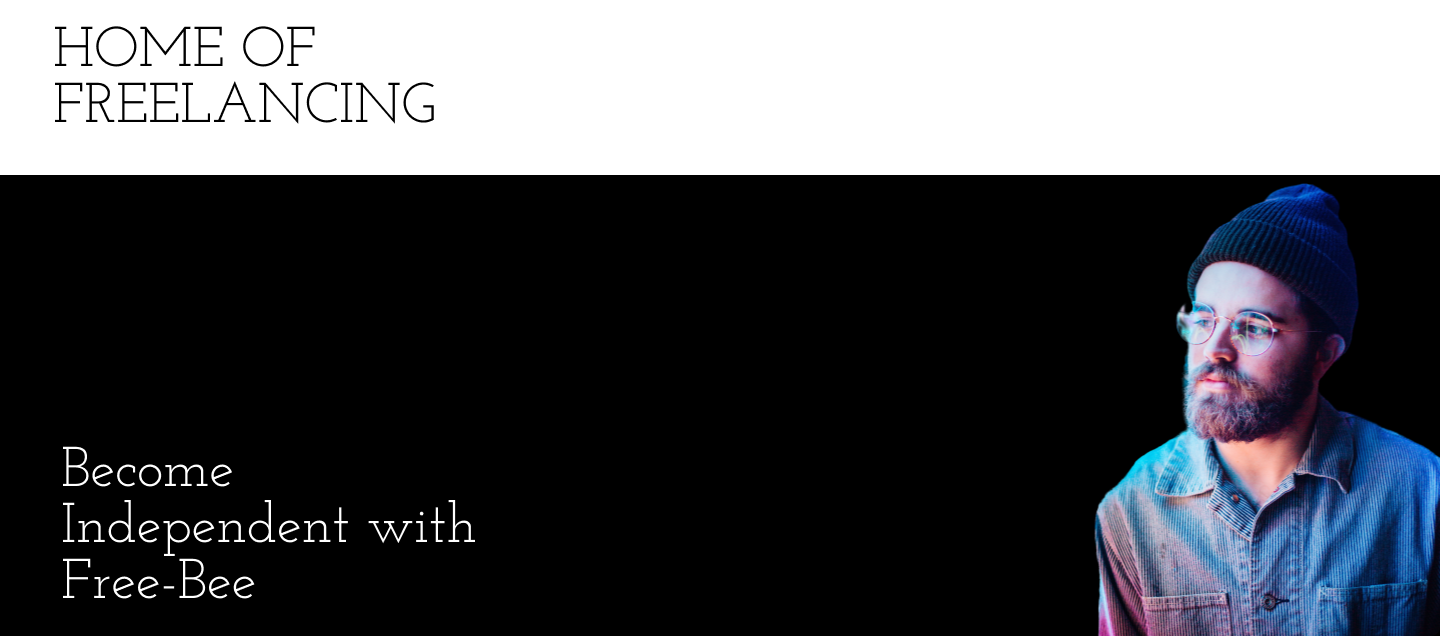
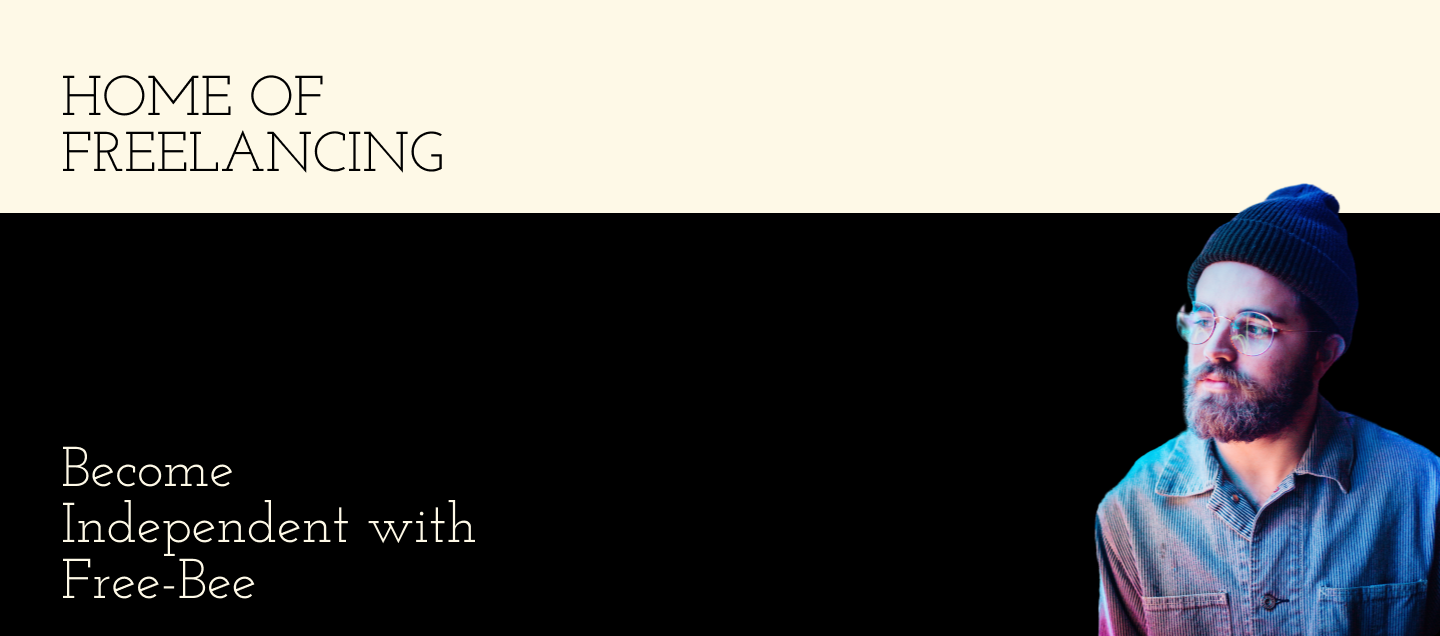
changes made for marketplace and colors added to body

Changed region(s): [[0.0, 0.0299, 1.0, 0.3585]]

diff --git a/main/templates/main/index.html b/main/templates/main/index.html
@@ -9,37 +9,45 @@
     <link rel="stylesheet" href="https://maxcdn.bootstrapcdn.com/bootstrap/3.4.1/css/bootstrap.min.css">
     <script src="https://ajax.googleapis.com/ajax/libs/jquery/3.6.0/jquery.min.js"></script>
     <script src="https://maxcdn.bootstrapcdn.com/bootstrap/3.4.1/js/bootstrap.min.js"></script>
-<body>
+    <body style="background-color:#FEF9E7">
     {% include '/Users/tanajkhanuja/Desktop/bee/main/templates/main/navbar.html' %}
     {%block  navbar%}
     
     {%endblock %} 
-    <div class="main" id="main">
+    <div class="main" id="main" style="background-color : #FEF9E7;">
         
         <img src="/static/images/1.png" class="img-fluid" alt="1" />
-      <a href="/signup"  <button type="button" class="btn btn-warning"  >Get Started</button> </a>
+         <a href="/signup" <button type="button" class="btn btn-warning" style="margin: 15px  " >Get Started</button> </a>
         <hr>
         <img src="/static/images/2.png" class="img-fluid" alt="2" />
         
 
         <hr>
-        <div>
-        <img src="/static/images/graphics.png" class="img-fluid" alt="Graphics" />
-        <a href="#">Graphics and Design</a>
+        <div class="section1">
+        <img src="/static/images/graphics.png" class="img-fluid" alt="Graphics"  />
+        <a href="#">Graphics and Design</a><hr> <br>
+            <br>
         <img src="/static/images/business.png" class="img-fluid" alt="Graphics" />
-        <a href="#">Business</a>
+        <a href="#">Business</a><hr><br>
+            <br>
         <img src="/static/images/data.png" class="img-fluid" alt="data" />
-        <a href="#">Data</a>
+        <a href="#">Data</a><hr><br>
+            <br>
         <img src="/static/images/marketing.png" class="img-fluid" alt="marketing" />
-        <a href="#">Ditigal Marketing</a>
+        <a href="#">Ditigal Marketing</a><hr><br>
+            <br>
         <img src="/static/images/audio.png" class="img-fluid" alt="audio" />
-        <a href="#"> Music and Audio</a>
+        <a href="#"> Music and Audio</a><hr><br>
+            <br>
         <img src="/static/images/programming.png" class="img-fluid" alt="programming" />
-        <a href="#">Programming and Tech</a> 
+        <a href="#">Programming and Tech</a> <hr><br>
+            <br>
         <img src="/static/images/videoediting.png" class="img-fluid" alt="videoediting" />
-        <a href="#">Video and Animation</a>
+        <a href="#">Video and Animation</a><hr><br>
+            <br>
         <img src="/static/images/writing.png" class="img-fluid" alt="writing" />
-        <a href="#">Writing and Translation </a>
+        <a href="#">Writing and Translation </a><hr><br>
+            <br>
         
         
         </div>

diff --git a/main/templates/main/marketplace.html b/main/templates/main/marketplace.html
@@ -4,7 +4,19 @@
 <link rel="stylesheet" href="https://maxcdn.bootstrapcdn.com/bootstrap/3.4.1/css/bootstrap.min.css"></link>
 <script src="https://ajax.googleapis.com/ajax/libs/jquery/3.6.0/jquery.min.js"></script>
 <script src="https://maxcdn.bootstrapcdn.com/bootstrap/3.4.1/js/bootstrap.min.js"></script>
-<h1>Marketplace</h1>
+<body style="background-color:#FEF9E7;" > 
+    <img src="/static/images/Marketplace.png" class="img-fluid" alt="marketplace" />
+    <div class="marketplace">
+        <a href="#" class="cat-con">Graphics and Design </a>  | 
+        <a href="#"  class="cat-con">Business</a>     |
+        <a href="#" class="cat-con">Data</a>     |
+        <a href="#" class="cat-con">Marketing</a>     |
+        <a href="#" class="cat-con">Music and Audio</a>  |   
+        <a href="#" class="cat-con">Programming and Tech</a>  |  
+        <a href="#" class="cat-con">Video and Animation</a>   |  
+        <a href="#" class="cat-con">Writing and translation</a> |
+    </div>
+</body>
 
 
 {%endblock  %} 

diff --git a/main/templates/main/Content.html b/main/templates/main/Content.html
@@ -5,7 +5,11 @@
 
 <div class="marketplace">
     
-    <a type="button" class="btn btn-warning" href="/marketplace" >Marketplace</a>
+    <a type="button" class="btn btn-warning" href="/marketplace"  style=" display: flex;
+    flex-direction: row;
+    margin:10px;
+    width:100px;
+    justify-content: center;" >Marketplace</a>
 </div>
 
 {% endblock content %}
